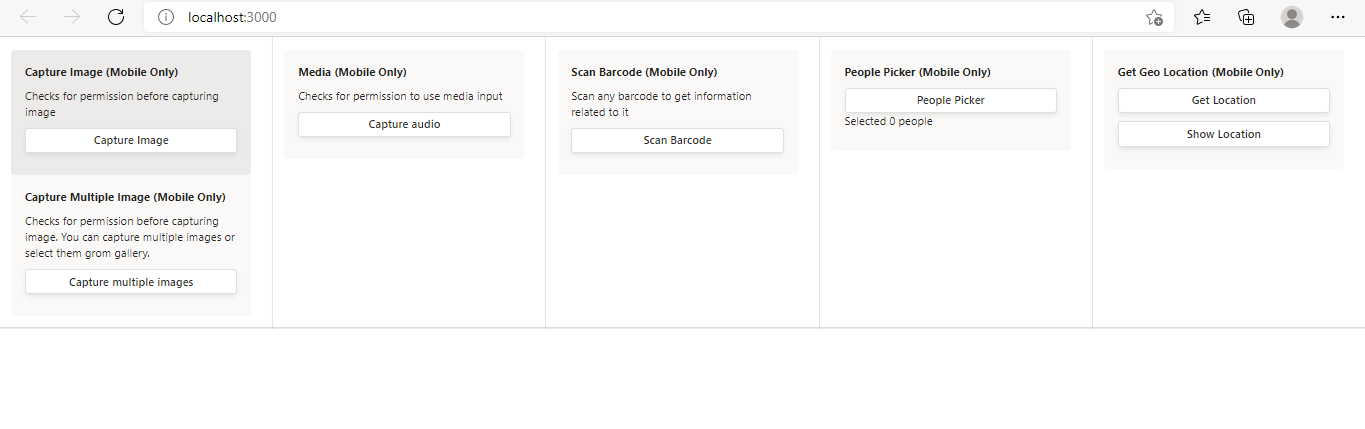
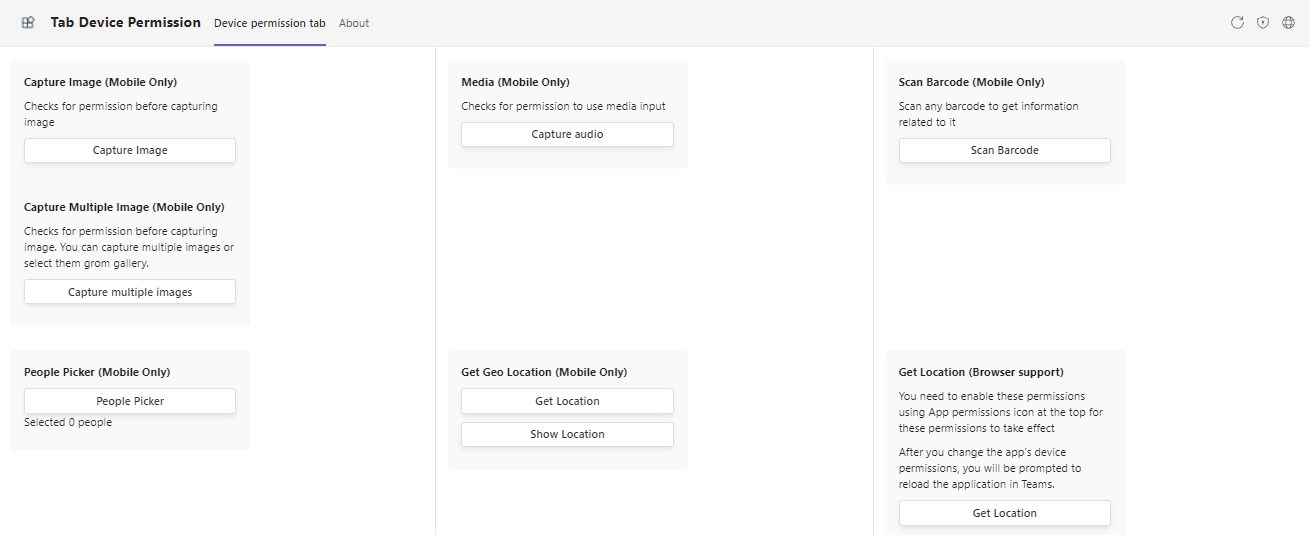
adding images

diff --git a/samples/tab-device-permissions/nodejs/src/components/GetLocationDesktop.tsx b/samples/tab-device-permissions/nodejs/src/components/GetLocationDesktop.tsx
@@ -36,7 +36,7 @@ const GetLocationDesktop = () => {
             {/* Card for capturing single image */}
             <Card>
                 <CardHeader>
-                    <Text content="Get Location (Mobile, Desktop, Web)" weight="bold" />
+                    <Text content="Get Location (Browser support)" weight="bold" />
                 </CardHeader>
                 <CardBody>
                     <Flex column gap="gap.small">
